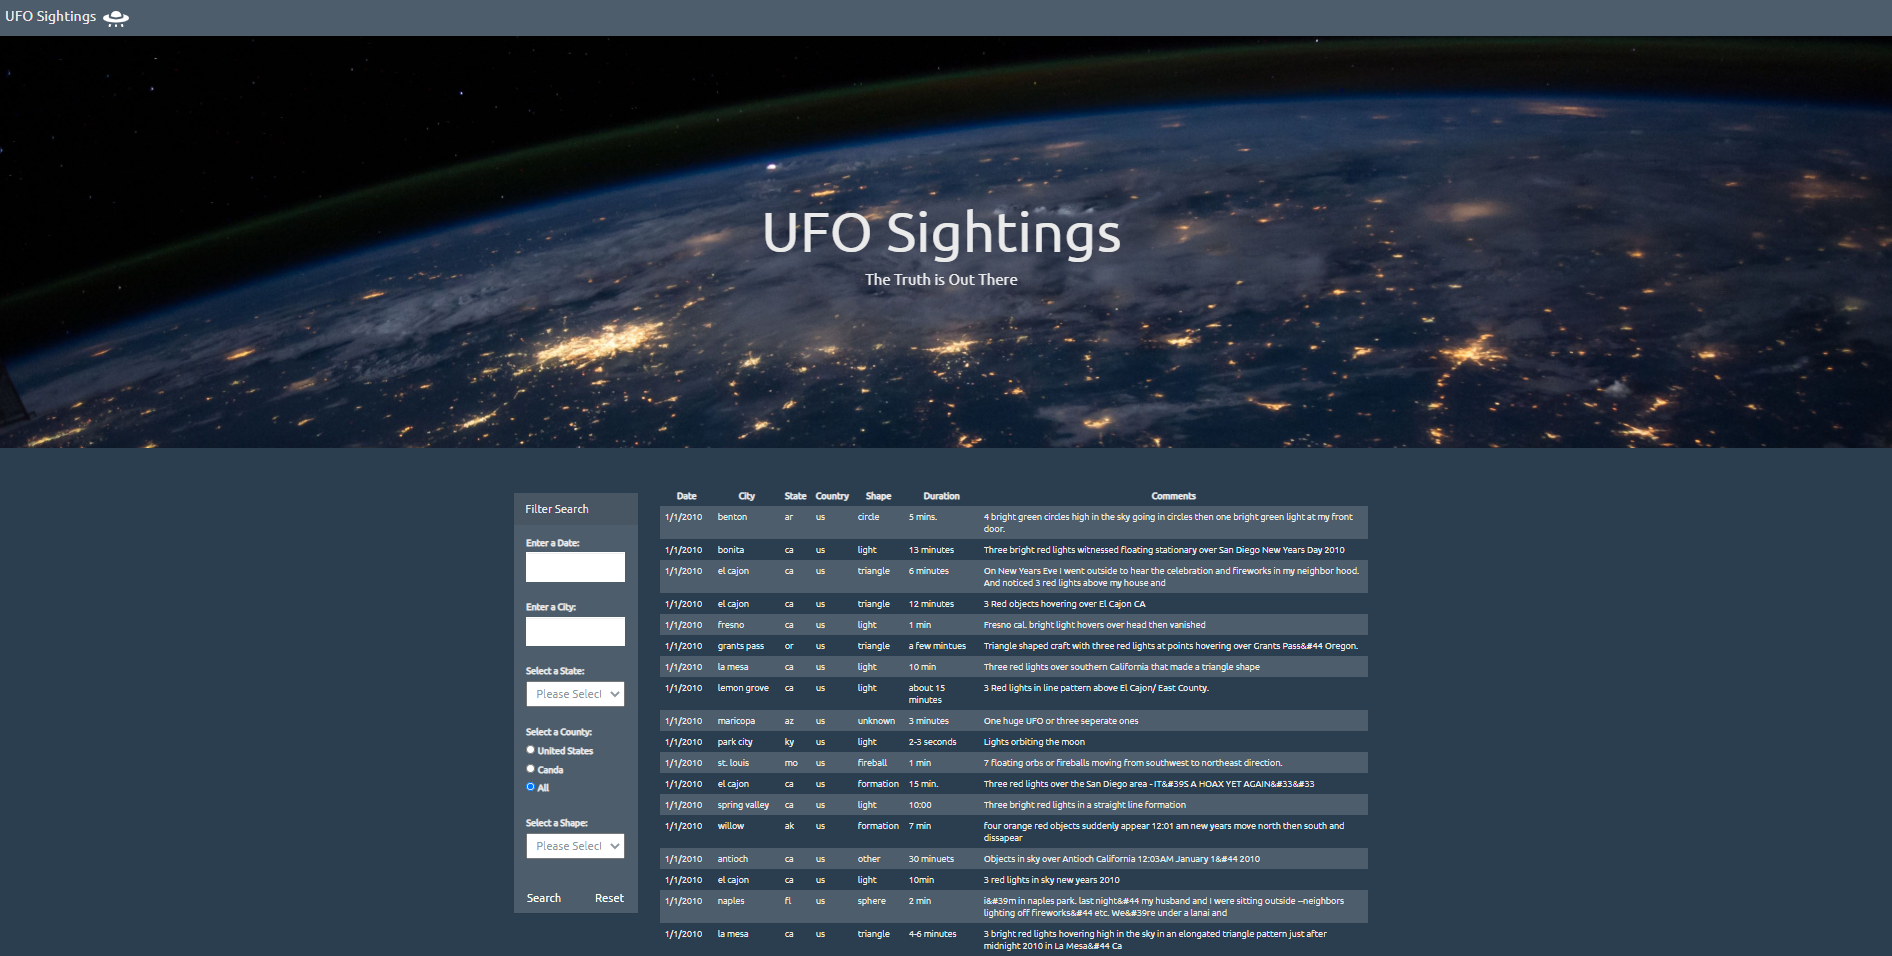
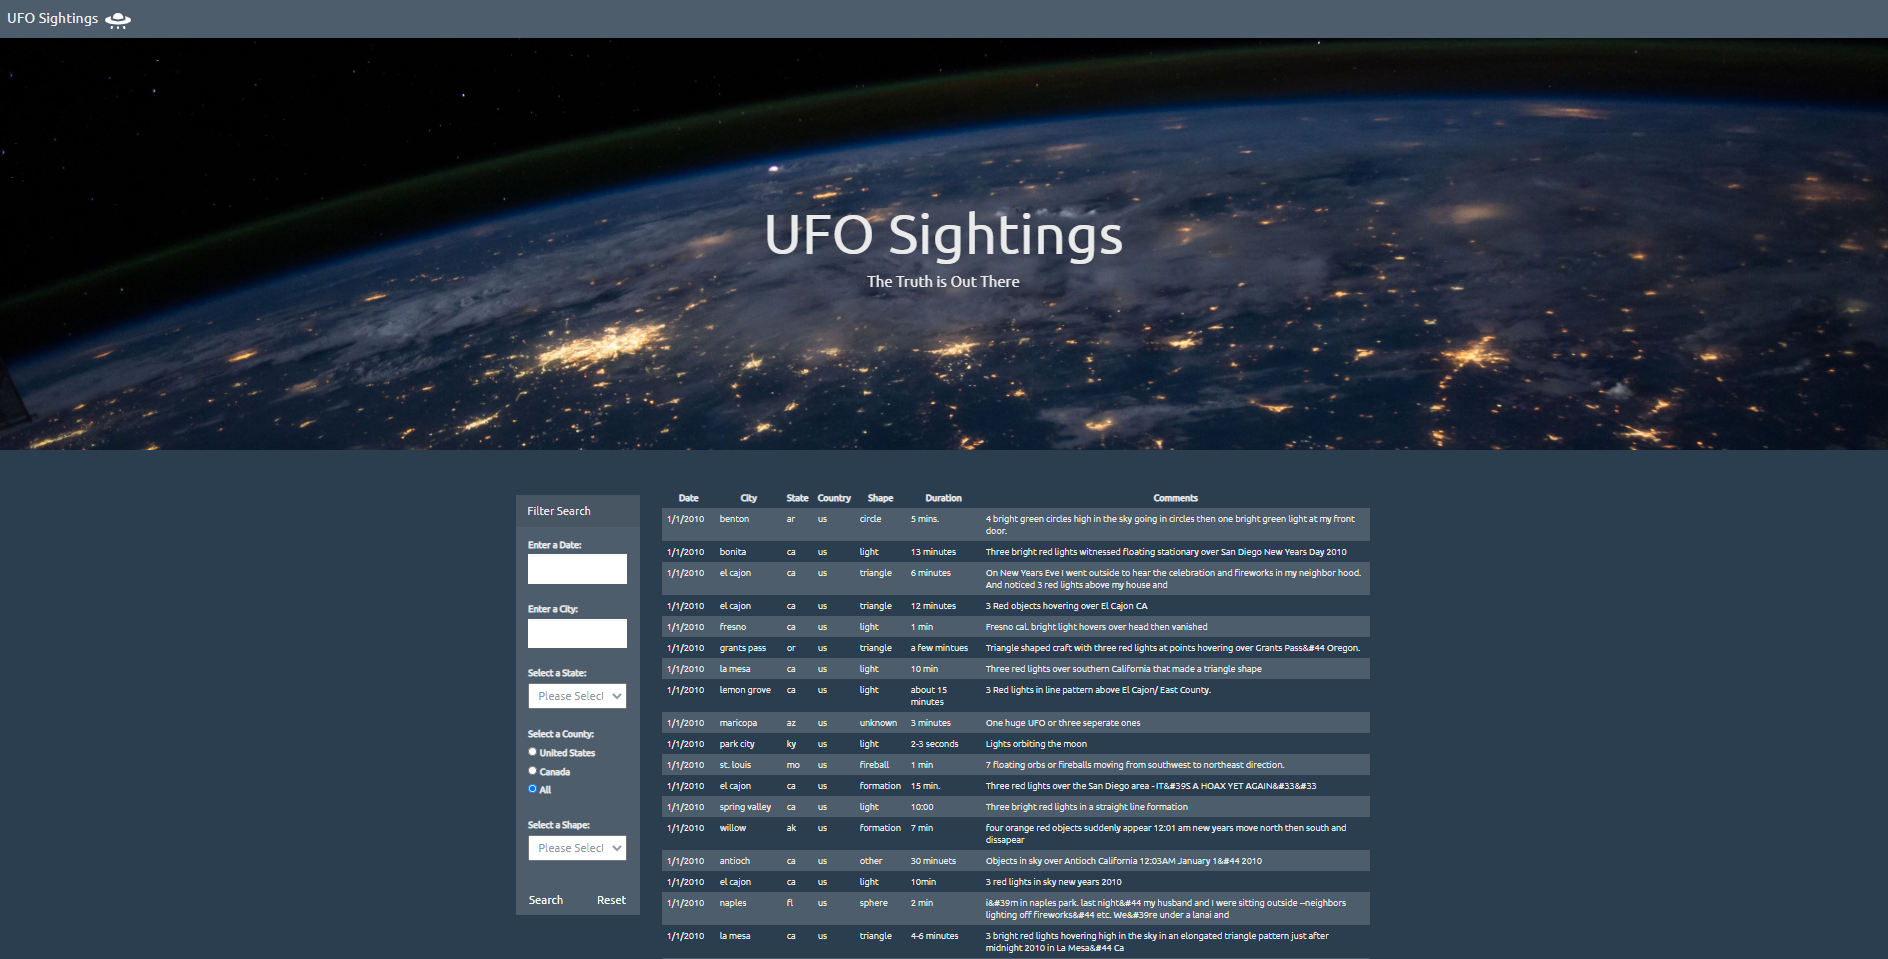
JavaScript and DOM Manipulation

diff --git a/index.html b/index.html
@@ -116,7 +116,7 @@
                         <input type="radio" id="countryUS" name="country" value="us">
                         <label for="country">United States</label><br>
                         <input type="radio" id="countryCA" name="country" value="ca">
-                        <label for="country">Canda</label><br>
+                        <label for="country">Canada</label><br>
                         <input type="radio" id="countryAll" name="country" value="" checked >
                         <label for="country">All</label>
                       </li>
